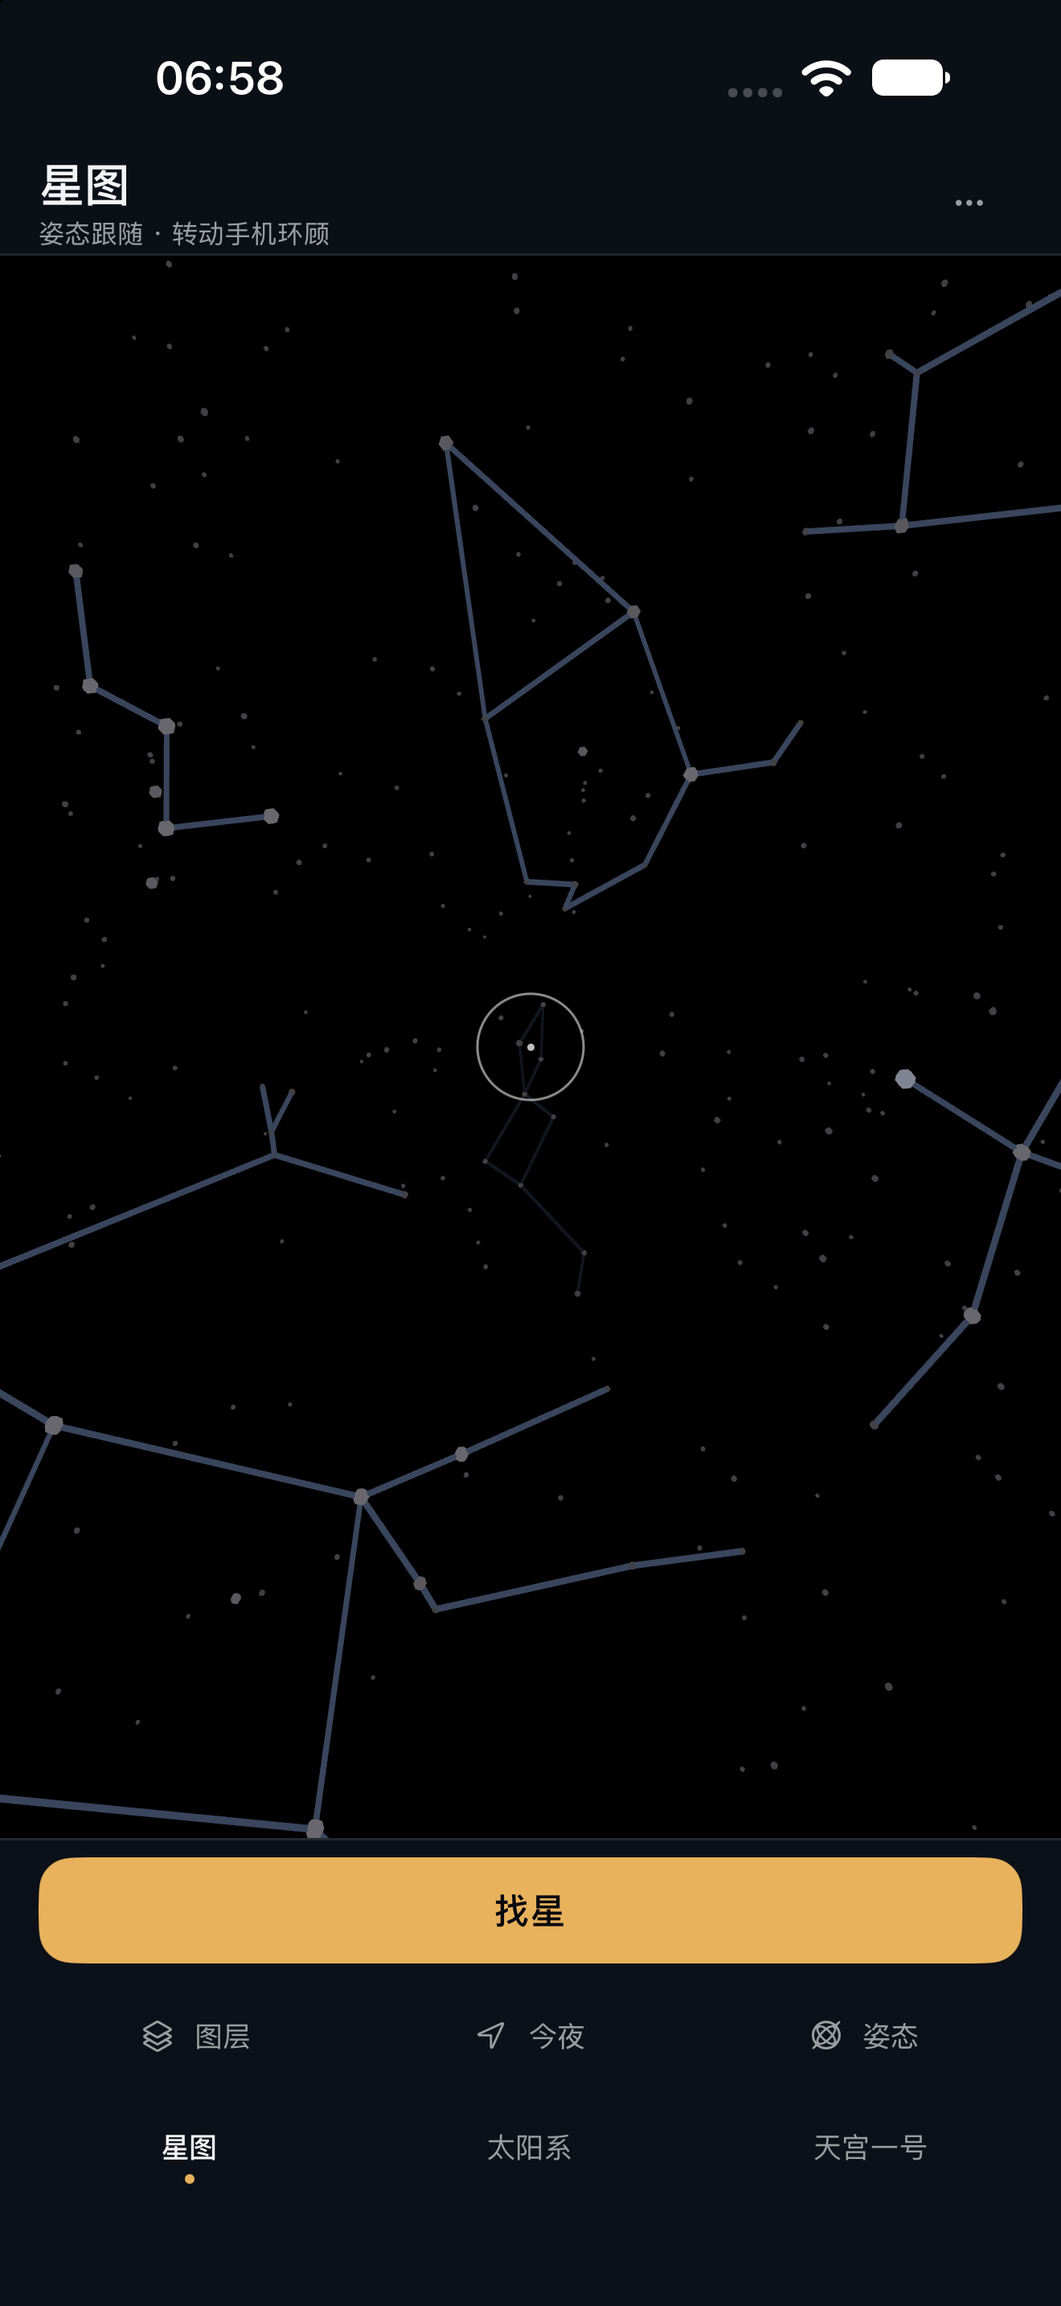
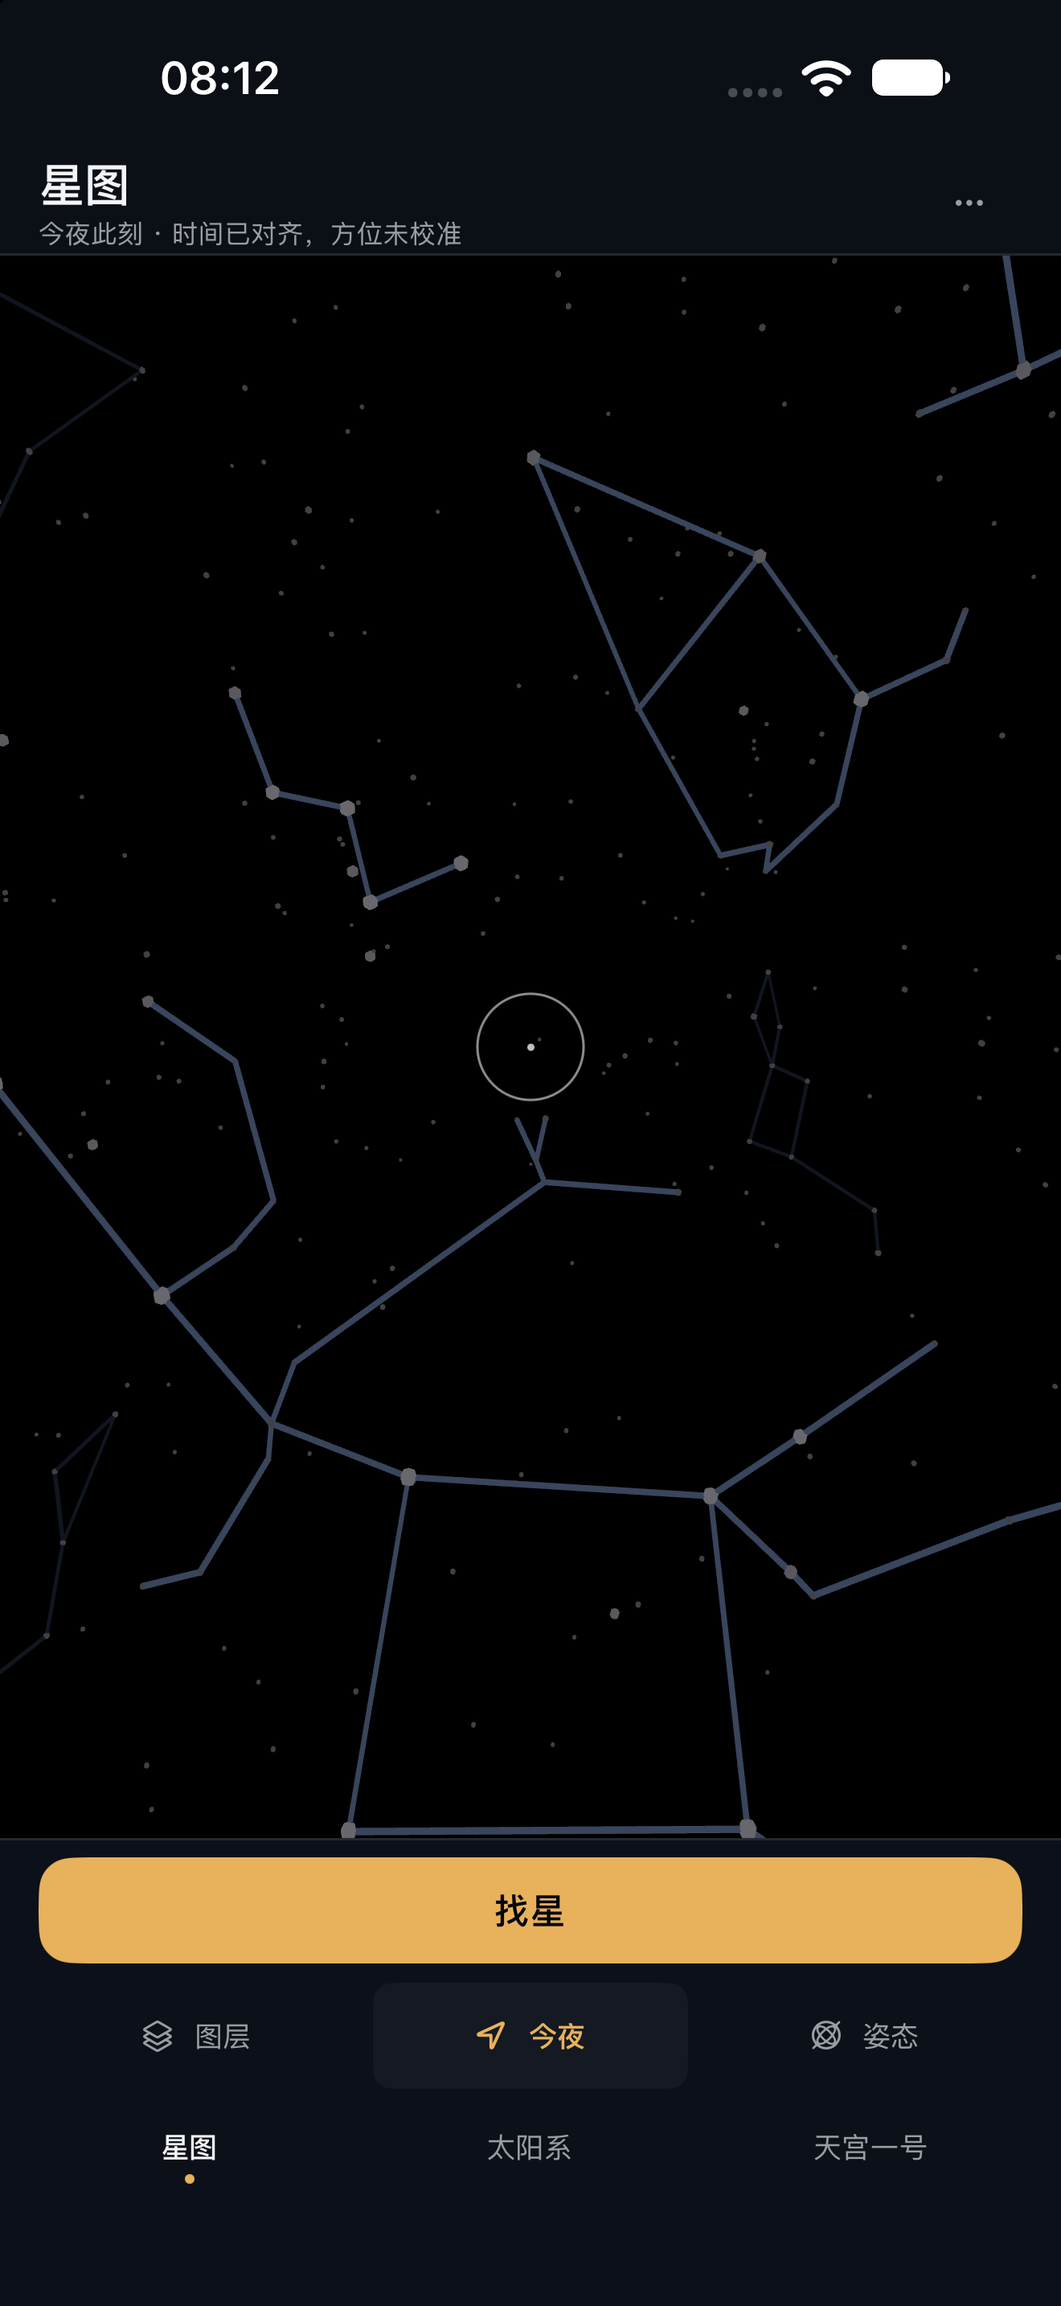
docs(081/083/084): A8 裁决登记+三票销账/实施记录+079 diff 五行更新（C5 升对齐）+上架截图重采+证据归档

diff --git a/docs/gates/M3/079-14-screen-diff.md b/docs/gates/M3/079-14-screen-diff.md
@@ -11,15 +11,15 @@
 | A2 | 选中恒星 | 部分 | `078-A1-default.png`（默认）、`SkyView+Cards.starCard` | 稿有「视星等 / 距离 / 赤经」读数块，实现星卡内容较简 | **已回改稿**：读数块标为设计意图，本版不验收；保留星卡与「定位」主操作 |
 | A3 | 找星 | 部分 | `StarFinderView`（`showsFinder` sheet） | 稿是应用内嵌屏（分类 tab 与主操作「取消」同屏），实现是系统 sheet，底栏被模态遮住 | **已回改稿**：注明本版屏内交互以系统 sheet 呈现；主操作「取消」写在 `ChromeState.derive(.finder)`，由 sheet 关闭后回落「找星」 |
 | A4 | 星官浏览 | 部分 | `AsterismBrowserView`（`showsAsterismBrowser` sheet） | 同上，稿的「三垣 / 二十八宿 / 搜索」为内嵌底栏 | **已回改稿**：同上；`ChromeState.derive(.asterisms)` 的「完成 / 三分类控件」已落地 |
-| A5 | 今夜对齐 | 部分 | `TonightTourView`、`toggleAlignment()`、`timeScrubber`（横屏紧凑顶栏） | 稿的城市选择、18:00–06:00 时间滑杆为内嵌 HUD；实现保留既有对齐开关与时间滑杆 | **已回改稿**：标为设计意图，本版不验收。~~`derive(.tonight)` 已落地~~ **083 更正（2026-11-17）**：derive 分支存在但 `syncMode` 从不产出 `.tonight`，对齐态在 chrome 上零反馈（死分支，与 081 同族）；修复另票 083 |
-| B1 | 太阳系默认 | 对齐 | `077-B1-solar.png`、`079-B1-light.png` | 状态条按实现写「运行中 · 第 N 天」（稿写死第 2 天） | **已对齐**：动态天数，与稿语义一致 |
+| A5 | 今夜对齐 | 部分 | `TonightTourView`、`toggleAlignment()`、`timeScrubber`（横屏紧凑顶栏）、**`083-tonight-aligned.png`（2026-11-17）** | 稿的城市选择、18:00–06:00 时间滑杆为内嵌 HUD；实现保留既有对齐开关与时间滑杆 | **已回改稿**：标为设计意图，本版不验收。~~derive 死分支~~ **083 已修（2026-11-17，方案二最小反馈）**：「今夜」控件 isSelected=observer.isOn、状态条消费 statusText（「今夜此刻 · …」），UI 验收 testTonightAlignmentShowsSelectionAndStatus 通过；`.tonight` 模式页仍不采用（城市/滑杆为设计意图） |
+| B1 | 太阳系默认 | 对齐 | `077-B1-solar.png`、`079-B1-light.png`、**`084-solar-rate.png`（2026-11-17）** | 状态条按实现写「运行中 · 第 N 天」（稿写死第 2 天） | **已对齐**：动态天数，与稿语义一致。**084 F4 补齐（2026-11-17）**：状态条现含流速档「运行中 · 第 N 天 · x 天/秒」（PRD-UI:183 原文），点「流速」升档即时上屏，UI 验收通过 |
 | B2 | 选中行星 | 对齐 | `078-B2-body-card.png` | 稿卡片脚注「比例为可读性做了非线性压缩」，实现保留 | **已对齐**；主操作「聚焦」、信息卡、下滑关闭均已取证 |
-| C1 | 天宫默认 | 对齐 | `078-C1-zero-labels.png`、`079-C1-light.png` | 稿顶部有三段任务条（拆解/装配/对接 0/4） | **已回改稿**：任务条标为设计意图，本版不验收；零浮标、状态条「目标飞行器 · 1:20 展示」与稿一致 |
+| C1 | 天宫默认 | 对齐 | `078-C1-zero-labels.png`、`079-C1-light.png`、**`084-reentry-locked-gray.png` / `084-reentry-lock-hint.png`（2026-11-17）** | 稿顶部有三段任务条（拆解/装配/对接 0/4） | **已回改稿**：任务条标为设计意图，本版不验收；零浮标、状态条「目标飞行器 · 1:20 展示」与稿一致。**084 F1 补齐（2026-11-17）**：再入未解锁时按钮置灰（PRD-UI:232），点击给 11pt 提示「完成三步任务并看过史实后解锁」3 秒回落，UI 验收通过 |
 | C2 | 选中舱段 | 对齐 | `078-C2-separated.png`、`079-C2-light.png`、`079-C2-dark.png` | 无 | **已对齐**：1 个标签 + 1 条引线、信息卡、「装回」主操作、不遮挡底部 |
-| C4 | 交会对接 | 部分 | `TiangongView.dockingCard`、`078` 门禁既有 `tiangong-docking.png`、`081-docking-no-hold.png` | 稿的容差环、四类失败判据、粗/精调/保持/回退四键 | **已回改稿**：容差环与四类判据标为设计意图；**2026-11-16（081）删「保持」死按钮**——判定进容差后自动累计 1s，按钮冗余；「回退」登记设计意图。`derive(.docking)` 现为「推进 / 粗调 / 精调」。**084 注记（2026-11-17）：生产入口路径缺失**——`beginDocking` 仅取证开关 `TG_DOCK=1` 与失败态「重试」可达，装配完成后无入口进对接；本屏截图系开关取证，生产可达性不成立，修复见 084 F2 |
-| C5 | 剖面 | 部分（081 降级） | `078-C5-cutaway.png`、`081-cutaway-no-interior-labels.png` | **081 查实**：稿要求的三处标注+引线从未实现（071 只做内景几何与卡片一行文案），「舱内标注」是无动作死按钮，原「对齐」判定不成立 | **已回改稿 + 回改实现（2026-11-16）**：稿删按钮、三处标注登记设计意图另票；实现删控件。主操作「退出剖面」、控件「复位视角」不变 |
+| C4 | 交会对接 | 部分 | `TiangongView.dockingCard`、`078` 门禁既有 `tiangong-docking.png`、`081-docking-no-hold.png` | 稿的容差环、四类失败判据、粗/精调/保持/回退四键 | **已回改稿**：容差环与四类判据标为设计意图；**2026-11-16（081）删「保持」死按钮**——判定进容差后自动累计 1s，按钮冗余；「回退」登记设计意图。`derive(.docking)` 现为「推进 / 粗调 / 精调」。~~084 注记：生产入口路径缺失~~ **084 F2/F3 已修（2026-11-17）**：装配完成自动 `beginDocking()`（任务链不断头，单测 testClosureAutoBeginsDocking）；粗调/精调改显式设档+当前档高亮（isSelected），不再双 toggle |
+| C5 | 剖面 | **对齐（081 补齐，2026-11-17）** | `078-C5-cutaway.png`、**`081-cutaway-interior-labels.png`（2026-11-17）** | 稿 12pt vs 实现 11pt（captionSize token 同源，登记差异） | ~~081 降级「部分」~~ **081 已实现（2026-11-17，常显方案）**：三处标注「睡眠区/健身区/设备机柜」+1px 引线随剖面态自动出现/消失，锚点取真实内景实体投影，垂直避让 26pt 不叠字；VoiceOver 可读（UI 验收 staticTexts 断言）；非剖面态零输出。稿删按钮裁决维持（常显无开关）。字号 11pt token 差异登记为设计意图 |
 | C6 | 工程图 | 对齐 | `078-C6-drawing.png` | 无 | **已对齐**：主操作「退出工程图」、三视图控件 |
-| C7 | 再入 | 对齐 | `078-C7-reentry.png` | 实现原有浮层里还有一个「跳过」按钮，与底部主操作重复 | **已回改实现**：删掉浮层内重复按钮，主操作唯一；「跳过 / 完成」与稿一致。**084 注记（2026-11-17）**：播放态外观对齐不变，但生产入口双重锁死——解锁需任务 complete（依赖 C4 断裂的对接链）+ 看过史实，且锁定态点击零反馈，违反 PRD-UI:232「置灰+说明+点击提示」；修复见 084 F1/F2 |
+| C7 | 再入 | 对齐 | `078-C7-reentry.png` | 实现原有浮层里还有一个「跳过」按钮，与底部主操作重复 | **已回改实现**：删掉浮层内重复按钮，主操作唯一；「跳过 / 完成」与稿一致。~~084 注记：生产入口双重锁死~~ **084 F1/F2 已修（2026-11-17）**：任务链装配→自动对接→complete 可达（单测 testReentryUnlocksAfterChainAndHistory），锁定态置灰+点击提示按 PRD-UI:232 落地；真机全链取证见 084 票 |
 | C8 | 史实面板 | 部分 | `079-C8-history.png` | 稿是内嵌全屏页，实现是系统 sheet | **已回改稿**：同上；三条史实日期、里程碑、来源与稿一致，「空间站」0 次 |
 
 ## 已回改实现的差异

diff --git a/.scratch/spacewalker/issues/084-reentry-lock-feedback-and-control-sweep.md b/.scratch/spacewalker/issues/084-reentry-lock-feedback-and-control-sweep.md
@@ -3,9 +3,8 @@
 日期：2026-11-17 ｜ 触发：董事长真机实测「点击天宫一号的再入，我没看到效果，同类型都需要检查一下」
 关联：080 门禁（B4/B5）、081（死按钮）、083（不可达分支）、079 diff（C1/C4/C7）、PRD-UI:232
 
-> 状态：**方案已批（董事长 2026-11-17 07:58：F1–F4 全部批准，F2 采「自动进入」形态；
-> F5 登记不动）。实施触发 = 080 人工门禁签字后，与 081/083 同批 TDD**（不插队）。
-> 诊断阶段未动代码；实施时按 §4 顺序 F1+F3 → F2 → F4 → 全量回归 → 真机全链取证。
+> 状态：**F1–F4 已实施（2026-11-17，A8 解除阻塞，06d2234）**。F5 登记不动。
+> 单测 412 项 0 失败 + UI 验收 4 条通过；真机全链取证待设备重新可达（见实施记录）。
 
 ## 1. 现象
 
@@ -152,3 +151,21 @@ F1+F3 同批（ChromeControl 字段一次加齐）→ F2（任务链）→ F4（
 - 设计依据：PRD-UI-v1.md:232（置灰+说明+点击提示）、:183（x 天/秒）、:197（C4 粗调/精调）、
   :200（C7 最后一圈）；079 diff C1（任务条已裁「设计意图不验收」——注意：任务条不验收
   ≠ 任务链可以断，F2 是功能可达性缺陷不是 UI 对照差异）。
+## 6. 实施记录（2026-11-17，06d2234）
+
+- **F1**：`ChromeControl.isEnabled` + `derive(reentryUnlocked:)`；锁定态置灰但可点
+  （PRD「点击时提示」），点击 → 状态条 11pt「完成三步任务并看过史实后解锁」3 秒回落
+  （token 防竞态）+ SessionLog `tiangong.reentry locked=1`。
+  UI 验收 testReentryLockedTapShowsHintThenFallsBack 通过；
+  证据 084-reentry-locked-gray.png / 084-reentry-lock-hint.png。
+- **F2**：`advanceMission` assembly→docking 分支追加 `beginDocking()`；
+  单测 testClosureAutoBeginsDocking / testReentryUnlocksAfterChainAndHistory 覆盖全链。
+- **F3**：`setControlMode(_:)` 显式设档（同档不翻转），chrome 双控件 isSelected 高亮当前档；
+  dockingCard 内小按钮保留 toggleControlMode（内部改走 setControlMode）。
+- **F4**：`SolarSystemState.rateStatusText/statusDetail` 纯函数，状态条
+  「运行中 · 第 N 天 · x 天/秒」，daysPerSecond onChange 即时上屏；
+  UI 验收 testSolarRateVisibleInStatusLine 通过（顺带修正 LandscapeUITests
+  既有笔误 MODE=space→solarSystem，该值从未匹配过 initialRoute）。
+- 真机全链取证（拆解→装配→自动对接→成功→史实→再入解锁→三拍）：
+  设备 2026-11-17 08:13 无线掉线（unavailable），待重新可达后补；
+  链路逻辑已由单测全覆盖，真机取证为补充证据非逻辑验证。

diff --git a/.workbuddy/memory/2026-11-17.md b/.workbuddy/memory/2026-11-17.md
@@ -117,3 +117,27 @@
 - 080 checklist 门禁项 3/5 状态更新为「取证闭环、仅剩人工动作」；HUMAN-TASKS B5/C3/C4 同步。
 - D3/D6/D7 仍锁 080 签字后（未越门禁）。当前人工动作最短路径：
   ①runbook §6 签字 ②手机长按状态条 3s ③B1 盲测 5 人 ④B2/B4 结论签字。
+
+## 第八轮（08:00–08:15）：A8 裁决「不再等约人签体验」→ 081/083/084 同批 TDD 完成
+
+- **A8**：解除 080 对实施的阻塞（只解除排队，不代签人工项）。decisions A8 已登记。
+- **06d2234**（16 文件 +570/−42）：
+  - 083：ChromeControl.isSelected/isEnabled + derive(tonightAligned/reentryUnlocked/dockingFine/statusDetail)；
+    SkyView.syncTonightChrome 消费 observer.statusText（onChange 键用 statusText 本身——
+    bestHeadingAccuracy 是 private，statusText 是其全部输入的可观察派生）。
+  - 084 F1：锁定态置灰但可点，点击→状态条 11pt 提示 3s 回落（reentryHintToken 防竞态）+
+    SessionLog tiangong.reentry locked=1；F2：advanceMission 追加 beginDocking()（无递归，
+    selected=nil 经 onChange 走 syncMode）；F3：setControlMode 显式设档+isSelected 高亮；
+    F4：SolarSystemState.rateStatusText/statusDetail 纯函数上状态条。
+  - 081：derive(.cutaway) 三条 interior 标签 + TiangongScene.interiorAnchors()（rack-0）+
+    labelLayer 垂直避让 26pt（首版截图三标签叠字，按锚点 y 排序强制间隔修复）+ VoiceOver。
+- **基线 412 项单测 0 失败** + ChromeFeedbackUITests 4 条 UI 验收通过（新文件需 xcodegen）。
+  踩坑：①UITest 断言「第 0 天」必败——ticker 在走，改断相位+档位段；
+  ②LandscapeUITests 既有笔误 MODE=space 从未匹配 initialRoute（合法值 solarSystem），顺带修正。
+- 上架截图 6 张全部重采（第 3 张今夜金色选中+对齐文案、第 6 张三标注不重叠，卖点终于拍得出）。
+- 079-diff：A5 更新（083 已修）、B1 补流速档、C1 补置灰态、C4/C7 084 已修、**C5 升「对齐」**。
+  081/083 票销账 done，084 票 F1–F4 完成记录。
+- **未完成**：084 真机全链取证——设备 08:13 无线掉线（unavailable），新包已编译
+  （build/Debug-iphoneos，含 06d2234），install 命令在掉线前发出但结果未确认；
+  设备恢复后需：确认装包→走拆解→装配→自动对接→成功→史实→再入解锁→三拍。
+  链路逻辑已单测全覆盖（testClosureAutoBeginsDocking/testReentryUnlocksAfterChainAndHistory）。

diff --git a/.scratch/spacewalker/issues/081-interior-labels-and-dead-controls.md b/.scratch/spacewalker/issues/081-interior-labels-and-dead-controls.md
@@ -1,7 +1,7 @@
 ---
 id: 081
 title: 舱内标注落地与死按钮清理
-status: ready-for-agent
+status: done
 stage: M3
 blocked_by: []
 ---
@@ -50,3 +50,16 @@ blocked_by: []
 - 「回退」（稿 C4）同为设计意图未实现，但不在本票范围；要做另开票。
 - 本票不影响 080 门禁：删按钮是缺陷修复，080 取证时需以含 764ee14 的包为准重取两张截图（旧 `080-device-*.png` 里天宫默认态不含这两个控件，不受影响；剖面/对接态未在 080 取证范围内）。
 - `status: ready-for-agent` 仅指「舱内标注」实现部分；删按钮部分已实施并附证据，状态流转仍由人确认。
+## 舱内标注实施记录（2026-11-17，A8 解除阻塞，06d2234）
+
+- 按 proposal.md 常显方案落地：`derive(.tiangong, mode: .cutaway)` visibleLabels 追加
+  interior-sleep/gym/rack 三条（排序：睡眠区→健身区→设备机柜）；
+  `TiangongScene.interiorAnchors()` 按名字查真实内景实体投影（rack 取 interior-rack-0），
+  几何不动、零新增 RealityKit 实体。
+- labelLayer 复用同一套 ForEach；**垂直避让 26pt**（三锚点相距几十 pt，等高上移会叠字，
+  首版截图查实后修复）；引线从锚点连到胶囊底缘；VoiceOver accessibilityLabel 逐条可读。
+- 字号 11pt（captionSize token），稿 12pt 差异登记 079-diff C5 为设计意图。
+- TDD：ChromeStateTests 4 条先红后绿；UI 验收
+  testCutawayInteriorLabelsVisibleAndAccessible（三 staticTexts 存在 + 退出剖面消失）通过。
+- 证据：docs/gates/M3/081-cutaway-interior-labels.png；上架截图第 6 张已重采。
+- 079-diff C5「部分」→「对齐」。基线 412 项 0 失败。081 全部范围销账。

diff --git a/.scratch/spacewalker/issues/083-tonight-chrome-gap.md b/.scratch/spacewalker/issues/083-tonight-chrome-gap.md
@@ -1,7 +1,7 @@
 ---
 id: 083
 title: 今夜对齐态在 chrome 上不可见（tonight mode 不可达）
-status: ready-for-agent
+status: done
 stage: M3.1
 blocked_by: []
 ---
@@ -55,3 +55,13 @@ isSelected + statusText 断言 → 实现 → 重拍截图第 3 张 → 079-diff
 ## 边界
 
 不在 080 门禁取证范围内新增功能；当前仅登记，082 截图第 3 张以默认态顶位并注明。
+## 实施记录（2026-11-17，A8 解除阻塞后当日完成）
+
+- 方案二落地：`ChromeControl.isSelected/isEnabled` 字段 + `derive(tonightAligned:)`；
+  `SkyView.syncTonightChrome()` 消费 `observer.statusText`（stage/statusText onChange），
+  卡片态不抢「已选中」；`.tonight` 模式页维持不采用。
+- TDD：ChromeStateTests 3 条 + AppReducerTests 2 条先红后绿；
+  UI 验收 `testTonightAlignmentShowsSelectionAndStatus`（isSelected + statusText 前缀断言）通过。
+- 证据：`docs/gates/M3/083-tonight-aligned.png`；上架截图第 3 张已重采
+  （`docs/design/appstore-screenshots/03-sky-aligned.png`，今夜金色选中+对齐文案）。
+- 079-diff A5 已更新。基线 412 项单测 0 失败（06d2234）。

diff --git a/docs/design/2026-11-17-decisions.md b/docs/design/2026-11-17-decisions.md
@@ -183,3 +183,15 @@ Pro 化路径（2.0 再议）：更多星官故事包 / AR 模式 / 导出星图
 PRD NFR-01 数值判据（A/B 55/30、C 25/20）不变，**达标签字仍归人工**（runbook §6）。
 
 **回写落点**：runbook §3 注记废止、§5b 事实 2 改已裁决、§6 取证方式勾选 ☑ 日志替代。
+
+---
+
+## A8 实施时机 —— 董事长直接裁决（2026-11-17 07:57）：不再等 080 体验签字，按既定开始
+
+**裁决原文**：「不再等约人签体验, 按既定开始即可」。
+
+**生效内容**：解除「080 签字后触发」对 D3（081 舱内标注）/D6（083 今夜反馈）/
+D7（084 F1–F4）的实施阻塞，三票按既定已批方案同批 TDD 开工。
+**边界**：本裁决只解除实施排队，不代签 080 任何人工项——B1 盲测、B2 标签降级结论、
+B3 §6 达标签字、B4 diff 签字、B5 长按手势复验仍待人工，080 状态不因实施而改变；
+实施后 080 基线更新为含新代码的 HEAD，人工取证以新包为准。

diff --git a/docs/design/2026-11-17-interior-labels/proposal.md b/docs/design/2026-11-17-interior-labels/proposal.md
@@ -39,6 +39,6 @@ derive(.cutaway) 恢复控件 + session 增 `interiorLabelsVisible` 状态 + act
 
 ## 待董事长确认
 
-- [ ] 常显 vs 开关（推荐常显）
-- [ ] 字号 11pt token vs 稿 12pt（推荐沿用 token）
-- [ ] 实现时机：080 过后 vs 明示插队
+- [x] 常显（董事长批「按拟定执行」，2026-11-17 实施）
+- [x] 11pt token（差异登记 079-diff C5）
+- [x] A8 裁决解除阻塞（2026-11-17 07:57），当日实施完成（06d2234）
